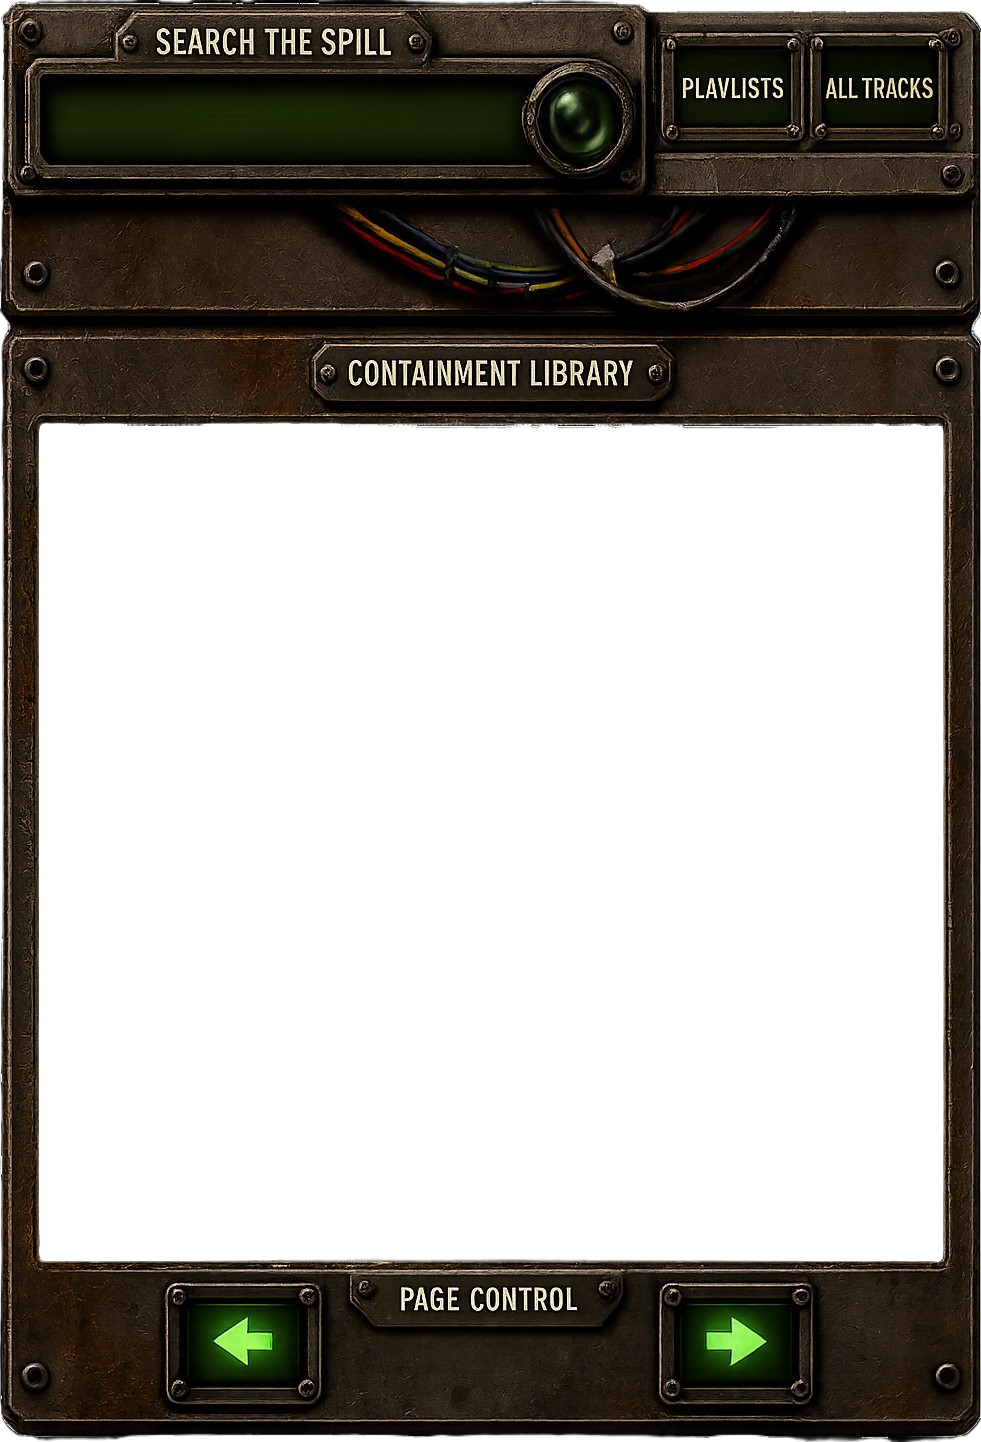
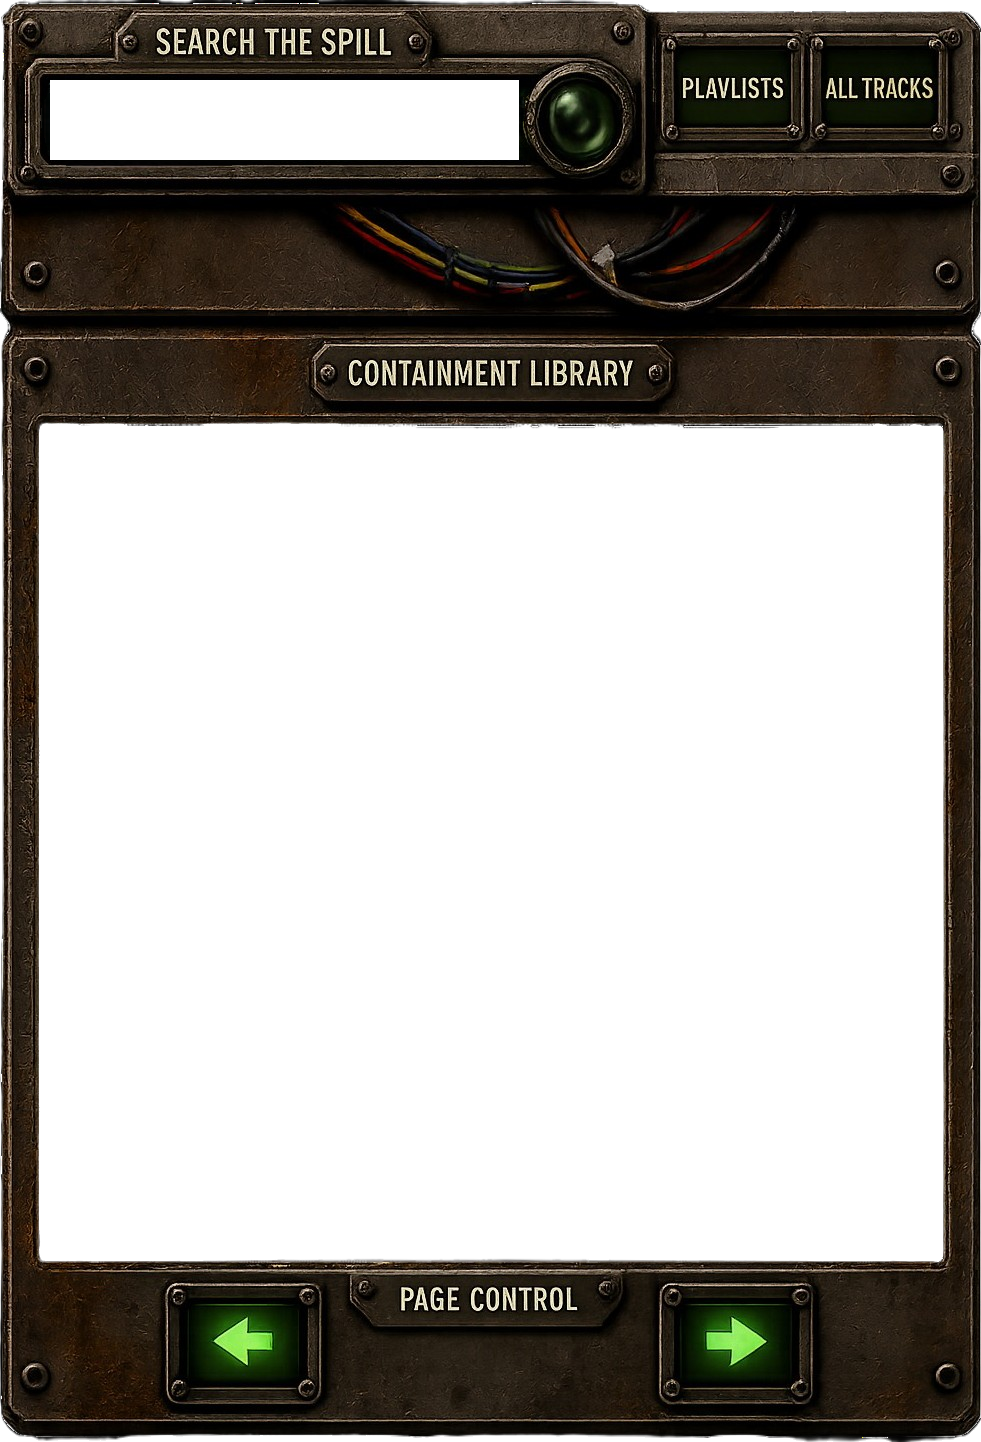
music manifest + nginx subdir build fix

Changed region(s): [[0.0306, 0.0312, 0.5505, 0.1248]]

diff --git a/src/styles.css b/src/styles.css
@@ -158,7 +158,7 @@ audio { display: none; }
   right: calc(560px + 1%);
   height: calc(100vh - 142px - 82px);
   z-index: 10;
-  background: url("/images/industrial-player-shell-v2-final.png") center center / 100% 100% no-repeat;
+  background: url("/images/archive/industrial-player-shell-v2-final.png") center center / 100% 100% no-repeat;
 }
 
 /* Frame image is on top of content via ::after */
@@ -166,7 +166,7 @@ audio { display: none; }
   content: "";
   position: absolute;
   inset: 0;
-  background: url("/images/industrial-player-shell-v2-final.png") center center / 100% 100% no-repeat;
+  background: url("/images/archive/industrial-player-shell-v2-final.png") center center / 100% 100% no-repeat;
   pointer-events: none;
   z-index: 50;
 }
@@ -189,19 +189,7 @@ audio { display: none; }
 }
 
 .shellTitleStrip {
-  left: 17%;
-  top: 78%;
-  width: 40%;
-  height: 3%;
-  display: flex;
-  justify-content: space-between;
-  align-items: center;
-  padding: 0 0.5rem;
-  font-size: 0.6rem;
-  font-weight: 900;
-  color: #b7ff2b;
-  letter-spacing: 0.08em;
-  z-index: 20;
+  display: none;
 }
 
 /* Fumes gauge — positioned over the meter dial in the shell image */
@@ -248,7 +236,7 @@ audio { display: none; }
 }
 
 .shellCoverViewport {
-  left: 29%;
+  left: 19%;
   top: 6%;
   width: 43%;
   height: 70%;
@@ -277,7 +265,7 @@ audio { display: none; }
 .shellVizViewport {
   left: 68%;
   top: 6%;
-  width: 30%;
+  width: 24%;
   height: 21%;
   background: rgba(0, 8, 0, 0.2);
   overflow: hidden;
@@ -301,7 +289,7 @@ audio { display: none; }
 .shellDossierPanel,
 .shellLyricsPanel {
   left: 68%;
-  width: 30%;
+  width: 24%;
   padding: 0.6rem;
   color: #f4f0d6;
   background: rgba(0, 0, 0, 0.7);
@@ -465,13 +453,20 @@ audio { display: none; }
 .libraryButtons {
   position: absolute;
   top: 5%;
-  left: 62%;
+  left: 55%;
   right: 2%;
-  height: 5%;
+  height: 12%;
   display: flex;
   align-items: center;
-  gap: 0.3rem;
+  justify-content: flex-end;
+  gap: 0.4rem;
   z-index: 5;
+}
+
+.libraryButtons .playlistLink {
+  padding: 0.35rem 0.7rem;
+  font-size: 0.78rem;
+  height: 100%;
 }
 
 .panelLabel {
@@ -522,10 +517,19 @@ audio { display: none; }
   width: 100%;
   border: 0;
   outline: 0;
-  color: #ffffff;
+  color: #caff3a;
   background: transparent;
   font-weight: 700;
   font-size: 0.82rem;
+  caret-color: #caff3a;
+}
+
+.searchBox input::placeholder {
+  color: rgba(202, 255, 58, 0.45);
+}
+
+.searchBox {
+  border-bottom: 1px solid rgba(202, 255, 58, 0.3);
 }
 
 .trackList {
@@ -533,7 +537,7 @@ audio { display: none; }
   left: 3%;
   right: 2%;
   top: 30%;
-  bottom: 10%;
+  bottom: 15%;
   display: grid;
   grid-template-rows: repeat(5, minmax(0, 1fr));
   gap: 0.25rem;
@@ -585,37 +589,69 @@ audio { display: none; }
 
 .libraryPagination {
   position: absolute;
-  left: 6%;
+  left: 4%;
   right: 4%;
-  bottom: 4%;
+  bottom: 1%;
   height: 8%;
   display: grid;
-  grid-template-columns: auto 1fr auto;
+  grid-template-columns: 1fr auto 1fr;
   align-items: center;
-  gap: 0.5rem;
-  color: #f4f0d6;
-  text-align: center;
-  font-weight: 900;
-  font-size: 0.78rem;
   z-index: 5;
 }
 
-.libraryPagination button {
-  border: 1px solid rgba(190, 255, 65, .45);
-  background: rgba(5, 12, 3, 0.72);
+/* Prev button — overlays left arrow in frame image */
+.libraryPagination button:first-child {
+  justify-self: start;
+  width: 40%;
+  height: 100%;
+  border: none;
+  background: transparent;
   color: #caff3a;
+  font-size: 1.4rem;
   font-weight: 900;
   cursor: pointer;
-  padding: 0.25rem 0.5rem;
-  height: 100%;
   display: flex;
   align-items: center;
   justify-content: center;
+  transition: background 0.15s;
+}
+
+/* Next button — overlays right arrow in frame image */
+.libraryPagination button:last-child {
+  justify-self: end;
+  width: 40%;
+  height: 100%;
+  border: none;
+  background: transparent;
+  color: #caff3a;
+  font-size: 1.4rem;
+  font-weight: 900;
+  cursor: pointer;
+  display: flex;
+  align-items: center;
+  justify-content: center;
+  transition: background 0.15s;
+}
+
+.libraryPagination button:hover:not(:disabled) {
+  background: rgba(168, 255, 50, 0.12);
 }
 
 .libraryPagination button:disabled {
-  opacity: 0.35;
+  opacity: 0;
   cursor: default;
+  pointer-events: none;
+}
+
+/* Page indicator between the two buttons */
+.libraryPagination span {
+  text-align: center;
+  color: #caff3a;
+  font-family: 'VT323', monospace;
+  font-size: 1.3rem;
+  letter-spacing: 0.05em;
+  text-shadow: 0 0 6px rgba(202, 255, 58, 0.7);
+  white-space: nowrap;
 }
 
 /* === WARNING STRIP (bottom) === */
@@ -634,6 +670,41 @@ audio { display: none; }
 
 .warningPlate {
   display: none; /* baked into the image */
+}
+
+/* === CONTAINMENT VIEW — header signal panel === */
+
+.headerSignal {
+  display: flex;
+  gap: 1.2rem;
+  align-items: center;
+  padding: 0 1rem;
+}
+
+.headerSignal > div {
+  display: flex;
+  flex-direction: column;
+  align-items: center;
+  gap: 0.1rem;
+  border: 1px solid rgba(190, 255, 65, 0.3);
+  background: rgba(5, 12, 3, 0.75);
+  padding: 0.3rem 0.7rem;
+  min-width: 80px;
+  text-align: center;
+}
+
+.headerSignal span {
+  font-size: 0.6rem;
+  font-weight: 900;
+  color: #b5ad91;
+  letter-spacing: 0.07em;
+  text-transform: uppercase;
+}
+
+.headerSignal b {
+  font-size: 1.1rem;
+  color: #caff3a;
+  line-height: 1;
 }
 
 /* Digital grainy track count display */